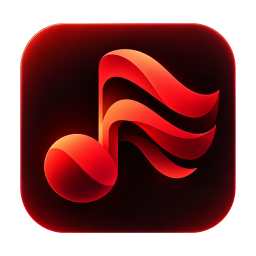
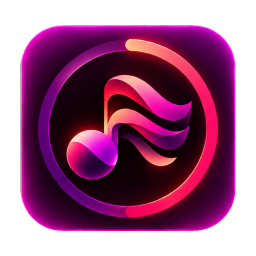
Ícone novo: magenta, com um anel em volta da nota
A organização segue-music ficou com o ícone vermelho, como marca do
Segue, e o app ganha o seu: a mesma nota, em magenta, dentro de um anel.
O tools/icons.dart tem as medidas da arte nova (887 px), e o alcance do
desenho passa a ser a borda de fora do anel, não a ponta da nota: é o
anel que cabe no círculo de 66 dp que todo formato do Android mantém.
Ícones do Android, banner da TV, Linux e iOS refeitos com ele.

diff --git a/tool/icons.dart b/tool/icons.dart
@@ -1,5 +1,5 @@
-// Makes the app's icons from tool/icon.png, the artwork: a red rounded square on a near-black background. Run it from
-// app/ after changing the artwork: DART=1 tool/flutter.sh run tool/icons.dart
+// Makes the app's icons from tool/icon.png, the artwork: a magenta rounded square, with a ring around the note, on a
+// near-black background. Run it after changing the artwork: DART=1 tool/flutter.sh run tool/icons.dart
 //
 // - Android: the launcher icon, adaptive (Android 8 and later, mipmap-anydpi-v26/ic_launcher.xml) and as a plain image
 //   before that, and the Android TV banner.
@@ -11,9 +11,9 @@ import 'dart:typed_data';
 
 import 'package:image/image.dart';
 
-/// The rounded square in the artwork, in its pixels, and how far the note reaches from the square's centre (the tip of
-/// its top flag), as measured on it. A new artwork needs these measured again.
-const _left = 140.0, _top = 137.0, _right = 1112.0, _bottom = 1085.0, _radius = 200.0, _note = 450.0;
+/// The rounded square in the artwork, in its pixels, and how far the drawing in it reaches from the square's centre
+/// (the outer edge of the ring around the note), as measured on it. A new artwork needs these measured again.
+const _left = 95.0, _top = 101.0, _right = 789.5, _bottom = 765.5, _radius = 136.0, _reach = 290.0;
 
 const _res = 'android/app/src/main/res';
 
@@ -28,18 +28,18 @@ void main() {
     _write('$_res/mipmap-$density/ic_launcher.png', art.shape((48 * scale).round(), 40 / 48));
     // Android 8 and later: the launcher cuts the icon to its own shape (a circle, a squircle...), so the foreground
     // layer, 108 dp of which 72 dp show, is the inside of the square without its edge, stretched to the layer's
-    // borders. The note fits in the 66 dp circle that every shape keeps.
+    // borders. The ring fits in the 66 dp circle that every shape keeps.
     _write('$_res/mipmap-$density/ic_launcher_foreground.png', art.inside((108 * scale).round(), 66 / 108));
   }
 
   // The Android TV banner, 320 × 180 dp: the artwork with its glow, on its own background.
   _write('$_res/drawable-xhdpi/banner.png', art.banner(640, 360));
   _write('linux/runner/resources/app_icon.png', art.shape(256, 0.84));
-  // iOS cuts the icon to its own rounded square, so it is the artwork's square from edge to edge, the note as big in it
-  // as in the artwork. Opaque: App Store Connect refuses an icon with an alpha channel.
+  // iOS cuts the icon to its own rounded square, so it is the artwork's square from edge to edge, the drawing as big in
+  // it as in the artwork. Opaque: App Store Connect refuses an icon with an alpha channel.
   _write(
     'ios/Runner/Assets.xcassets/AppIcon.appiconset/Icon-App-1024x1024@1x.png',
-    art.inside(1024, 2 * _note / (_right - _left)).convert(numChannels: 3),
+    art.inside(1024, 2 * _reach / (_right - _left)).convert(numChannels: 3),
   );
 }
 
@@ -74,10 +74,10 @@ class _Artwork {
   }
 
   /// The inside of the rounded square, 16 px from its edge, carried on to the image's borders by repeating that edge
-  /// outwards: opaque, with nothing of the square's shape left. [fill] is how much of the image the note takes.
+  /// outwards: opaque, with nothing of the square's shape left. [fill] is how much of the image the drawing takes.
   Image inside(int size, double fill) {
     const inset = 16.0;
-    final scale = 2 * _note / (size * fill);
+    final scale = 2 * _reach / (size * fill);
     return _render(size, size, scale, (x, y) {
       final (px, py) = _nearestInside(x, y, inset);
       final (r, g, b) = _sample(px, py);
